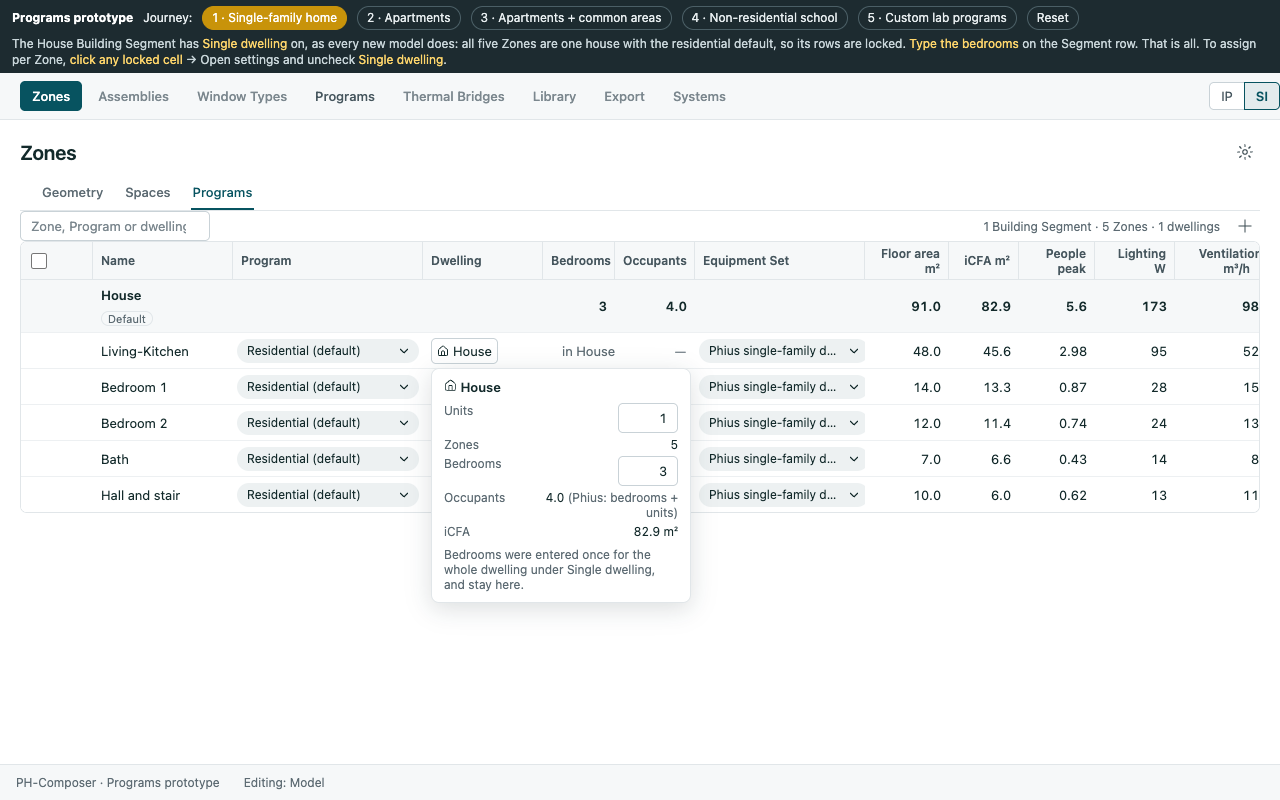
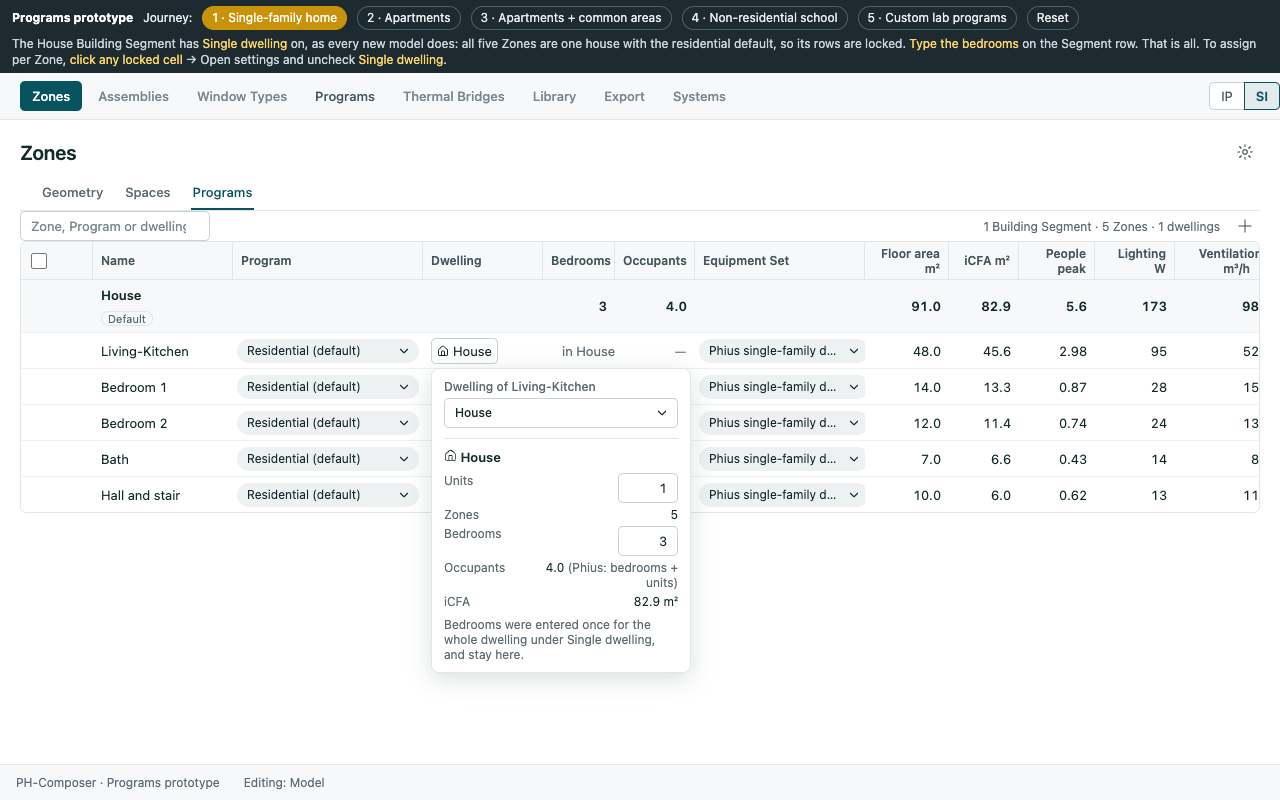
Programs prototype: set a Zone's dwelling from its Dwelling cell
The cell's bubble now starts with the Zone's dwelling (an existing one, New dwelling, Not a dwelling); 'None' cells open the same chooser.

Changed region(s): [[0.3438, 0.4688, 0.5312, 0.8438]]

diff --git a/planning/features/phase-04a-program/mockups/programs.html b/planning/features/phase-04a-program/mockups/programs.html
@@ -93,6 +93,9 @@
   .zp-seg select { font-weight:400; }
   .zp-bubble { position:absolute; z-index:40; width:260px; padding:10px 12px; border:1px solid var(--line); border-radius:8px; background:#fff; box-shadow:0 6px 24px #0b1f2626; font-size:12px; }
   .zp-bubble h3 { margin:0 0 8px; font-size:13px; }
+  .zp-dw-choose { display:grid; gap:4px; color:var(--muted); }
+  .zp-dw-choose select { font:inherit; font-size:12px; height:26px; color:var(--ink); }
+  .zp-bubble h3.zp-dw-head { margin:10px 0 8px; padding-top:10px; border-top:1px solid var(--line); }
   .zp-bubble dl { display:grid; grid-template-columns:auto 1fr; gap:4px 10px; margin:0; }
   .zp-bubble dt { color:var(--muted); }
   .zp-bubble dd { margin:0; text-align:right; font-variant-numeric:tabular-nums; }
@@ -655,8 +658,8 @@
     var progCell = '<select class="phc-enum-cell' + (z.program ? "" : " is-default") + '" data-act="zone-program" data-v="' + z.id + '" aria-label="Program for ' + esc(z.name) + '"' +
       (z.program ? "" : ' data-tip="Unassigned: uses its Building Segment\'s default Program."') + '>' + programOptions(z.program || segDefaultProgram(z)) + '</select>' + (f.length ? flag(f.join(" ")) : "");
     var dwl = z.dwelling ? dw(z.dwelling) : null;
-    var dwCell = dwl ? '<button type="button" class="zp-dwelling" data-act="dwelling" data-v="' + dwl.id + '">' + svg("home", 12) + esc(dwl.name) + (dwl.units > 1 ? " ×" + dwl.units : "") + '</button>'
-      : '<button type="button" class="zp-dwelling is-none" data-act="noop" data-tip="Not a dwelling. Check Zones and choose a Dwelling in the selection bar.">None</button>';
+    var dwCell = dwl ? '<button type="button" class="zp-dwelling" data-act="dwelling" data-v="' + z.id + '">' + svg("home", 12) + esc(dwl.name) + (dwl.units > 1 ? " ×" + dwl.units : "") + '</button>'
+      : '<button type="button" class="zp-dwelling is-none" data-act="dwelling" data-v="' + z.id + '">None</button>';
     var occTip = z.dwelling ? "Empty: the dwelling uses the Phius rule, bedrooms + 1 per unit." : "Only dwellings carry occupants.";
     var shared = dwl && zonesOfDwelling(dwl.id).length > 1;
     var setVal = z.set || (z.dwelling ? (dwl.set || null) : null);
@@ -865,16 +868,24 @@
     zs.forEach(function (z) { z.program = p.id === "pgm_default" ? null : p.id; });
   }
   function nextDwellingName() { return "Dwelling " + (S.dwellings.length + 1); }
+  function zn(n) { return n + " Zone" + (n === 1 ? "" : "s"); }
   function assignDwelling(zs, v) {
-    if (v === "none") { zs.forEach(function (z) { z.dwelling = null; z.beds = null; z.occ = null; }); notify(zs.length + " Zones are no longer dwellings."); }
-    else if (v === "shared") { var d = { id: id("dw"), name: S.journey === 1 ? "House" : nextDwellingName(), units: 1 }; S.dwellings.push(d); zs.forEach(function (z) { z.dwelling = d.id; }); notify(zs.length + " Zones now make up one dwelling, " + d.name + "."); }
+    if (v === "none") { zs.forEach(function (z) { z.dwelling = null; z.beds = null; z.occ = null; }); notify((zs.length === 1 ? zs[0].name + " is" : zn(zs.length) + " are") + " no longer part of a dwelling."); }
+    else if (v === "shared") { var d = { id: id("dw"), name: S.journey === 1 ? "House" : nextDwellingName(), units: 1 }; S.dwellings.push(d); zs.forEach(function (z) { z.dwelling = d.id; }); notify(zs.length > 1 ? zs.length + " Zones now make up one dwelling, " + d.name + "." : zs[0].name + " is now a dwelling, " + d.name + "."); }
     else if (v === "each") { zs.forEach(function (z) { var d = { id: id("dw"), name: z.name, units: 1 }; S.dwellings.push(d); z.dwelling = d.id; }); notify(zs.length + " dwellings, one per Zone."); }
-    else if (v.indexOf("to:") === 0) { var t = dw(v.slice(3)); zs.forEach(function (z) { z.dwelling = t.id; }); notify(zs.length + " Zones added to " + t.name + "."); }
+    else if (v.indexOf("to:") === 0) { var t = dw(v.slice(3)); zs.forEach(function (z) { z.dwelling = t.id; }); notify((zs.length === 1 ? zs[0].name : zn(zs.length)) + " added to " + t.name + "."); }
     S.dwellings = S.dwellings.filter(function (d) { return S.zones.some(function (z) { return z.dwelling === d.id; }); });
   }
-  function dwellingBubble(did, anchor) {
-    var d = dw(did), t = dwellingTotals(did), r = anchor.getBoundingClientRect(), pr = document.getElementById("pane").getBoundingClientRect();
-    var html = '<div class="zp-bubble" style="left:' + (r.left - pr.left) + 'px; top:' + (r.bottom - pr.top + 4) + 'px" role="dialog" aria-label="' + esc(d.name) + '"><h3>' + svg("home", 13) + ' ' + esc(d.name) + '</h3><dl>' +
+  // The Dwelling cell's bubble: which dwelling this Zone belongs to, then that dwelling's own values.
+  function dwellingBubble(zid, anchor) {
+    var z = S.zones.filter(function (x) { return x.id === zid; })[0], r = anchor.getBoundingClientRect(), pr = document.getElementById("pane").getBoundingClientRect();
+    var choose = '<label class="zp-dw-choose"><span>Dwelling of ' + esc(z.name) + '</span><select data-act="zone-dwelling" data-v="' + z.id + '" aria-label="Dwelling of ' + esc(z.name) + '">' +
+      S.dwellings.map(function (o) { return '<option value="to:' + o.id + '"' + (z.dwelling === o.id ? " selected" : "") + '>' + esc(o.name) + '</option>'; }).join("") +
+      '<option value="shared">New dwelling</option><option value="none"' + (z.dwelling ? "" : " selected") + '>Not a dwelling</option></select></label>';
+    var pos = 'style="left:' + Math.min(r.left - pr.left, pr.width - 280) + 'px; top:' + (r.bottom - pr.top + 4) + 'px"';
+    if (!z.dwelling) { S.bubble = { html: '<div class="zp-bubble" ' + pos + ' role="dialog" aria-label="Dwelling of ' + esc(z.name) + '">' + choose + '<p class="zp-muted" style="margin:8px 0 0">Not part of a dwelling: no bedrooms, occupants or Equipment Set.</p></div>' }; return; }
+    var did = z.dwelling, d = dw(did), t = dwellingTotals(did);
+    var html = '<div class="zp-bubble" ' + pos + ' role="dialog" aria-label="Dwelling of ' + esc(z.name) + '">' + choose + '<h3 class="zp-dw-head">' + svg("home", 13) + ' ' + esc(d.name) + '</h3><dl>' +
       '<dt>Units</dt><dd><input data-act="units" data-v="' + d.id + '" value="' + d.units + '" style="width:60px;text-align:right"></dd><dt>Zones</dt><dd>' + t.zones + '</dd><dt>Bedrooms</dt><dd>' + (d.beds !== null && d.beds !== undefined ? '<input data-act="dw-beds" data-v="' + d.id + '" value="' + d.beds + '" style="width:60px;text-align:right">' : t.beds) + '</dd>' +
       '<dt>Occupants</dt><dd>' + fmt(t.occ, 1) + (t.occRule ? ' <span class="zp-muted">(Phius: bedrooms + units)</span>' : "") + '</dd><dt>iCFA</dt><dd>' + fmt(t.icfa, 1) + ' m²</dd></dl>' +
       '<p class="zp-muted" style="margin:8px 0 0">' + (d.beds !== null && d.beds !== undefined ? 'Bedrooms were entered once for the whole dwelling under Single dwelling, and stay here.' : 'One unit count for several Zones, or several units in one Zone. Bedrooms and occupants are entered per Zone and summed here.') + '</p></div>';
@@ -923,6 +934,7 @@
     var el = e.target, a = el.getAttribute("data-act"), v = el.getAttribute("data-v"); if (!a) return;
     if (a === "zone-program") assignProgram(S.zones.filter(function (z) { return z.id === v; }), el.value);
     else if (a === "bulk-program") assignProgram(S.zones.filter(function (z) { return S.checked[z.id]; }), el.value);
+    else if (a === "zone-dwelling") { assignDwelling(S.zones.filter(function (z) { return z.id === v; }), el.value); S.bubble = null; }
     else if (a === "bulk-dwelling") assignDwelling(S.zones.filter(function (z) { return S.checked[z.id]; }), el.value);
     else if (a === "bulk-set") { var zs = S.zones.filter(function (z) { return S.checked[z.id]; }); zs.forEach(function (z) { z.set = el.value === "none" ? null : el.value; if (z.dwelling) dw(z.dwelling).set = z.set; }); notify("Equipment Set changed on " + zs.length + " Zones."); }
     else if (a === "zone-set") { var z = S.zones.filter(function (x) { return x.id === v; })[0]; z.set = el.value || null; if (z.dwelling) { dw(z.dwelling).set = z.set; zonesOfDwelling(z.dwelling).forEach(function (o) { o.set = z.set; }); } }
@@ -998,7 +1010,7 @@
     if (st === "newseg") { newSegment(); }
     if (st === "segsettings") { setTimeout(function () { openSegSettings(S.segments[0].id); }, 50); }
     if (st === "trydelete") { S.renaming = null; setTimeout(function () { confirmDeleteSeg(S.segments[0].id); }, 50); }
-    if (st === "bubble") { setTimeout(function () { var b = document.querySelector('[data-act="dwelling"]'); if (b) { dwellingBubble(b.getAttribute("data-v"), b); render(); } }, 50); }
+    if (st === "bubble") { setTimeout(function () { var b = document.querySelector('.zp-dwelling[data-act="dwelling"]:not(.is-none)'); if (b) { dwellingBubble(b.getAttribute("data-v"), b); render(); } }, 50); }
   });
   S.notice = null;
   render();

diff --git a/planning/features/phase-04a-program/mockups/README.md b/planning/features/phase-04a-program/mockups/README.md
@@ -61,6 +61,9 @@ server. The dark strip at the top picks a journey and says what to try; Reset re
   with summed bedrooms, occupants, people, lighting and ventilation. Per row: Program,
   Dwelling, Bedrooms, Occupants, Equipment Set, both floor areas, and the absolute loads. An
   unassigned Zone shows the residential default in italics.
+- **The Dwelling cell** opens a bubble anchored to it: first the Zone's dwelling (an existing
+  one, New dwelling, or Not a dwelling), then that dwelling's units, Zones, bedrooms, occupants and
+  iCFA. A "None" cell opens the same chooser (`j1-unlocked` shows it on House).
 - **The selection bar** assigns Program, Dwelling (one shared, one each, not a dwelling, add to an
   existing one) and Equipment Set to the checked Zones. Choosing a library Program copies it into
   the file and assigns it in one step.
